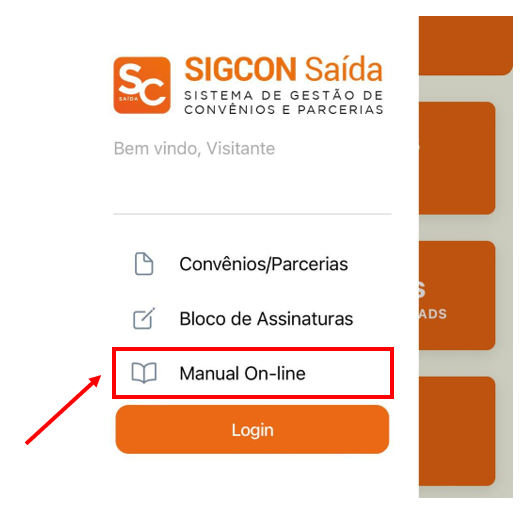
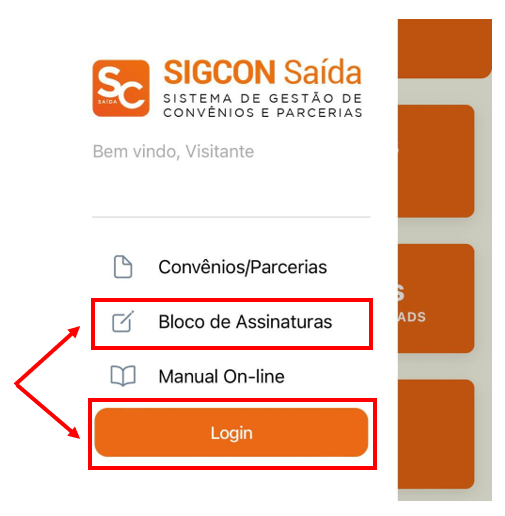
GITBOOK-583: change request with no subject merged in GitBook

diff --git a/SUMMARY.md b/SUMMARY.md
@@ -167,9 +167,10 @@
     * [Limitação para Assinatura de Documentos](processo-eletronico/solicitar-assinatura-login-senha/assinar-documento/restricoes-para-assinatura-de-documentos.md)
     * [Verificação do CAGEC](processo-eletronico/solicitar-assinatura-login-senha/assinar-documento/verificacao-do-cagec.md)
 * [Bloco de Assinatura de Documentos](processo-eletronico/bloco-de-assinatura-de-documentos/README.md)
-  * [Cadastrar Novo Bloco](processo-eletronico/bloco-de-assinatura-de-documentos/cadastrar-novo-bloco.md)
-  * [Editar Bloco Existente](processo-eletronico/bloco-de-assinatura-de-documentos/editar-bloco-existente.md)
+  * [Cadastrar Novo Bloco](processo-eletronico/bloco-de-assinatura-de-documentos/cadastrar-novo-bloco/README.md)
+    * [Editar Bloco Existente](processo-eletronico/bloco-de-assinatura-de-documentos/cadastrar-novo-bloco/editar-bloco-existente.md)
   * [Incluir Documentos em Bloco de Assinatura](processo-eletronico/bloco-de-assinatura-de-documentos/incluir-documentos-em-bloco-de-assinatura.md)
+  * [Disponibilizar Bloco de Assinatura](processo-eletronico/bloco-de-assinatura-de-documentos/disponibilizar-bloco-de-assinatura.md)
   * [Bloco de Documentos Disponíveis para Assinatura](processo-eletronico/bloco-de-assinatura-de-documentos/bloco-de-documentos-disponiveis-para-assinatura.md)
   * [Histórico de Alterações](processo-eletronico/bloco-de-assinatura-de-documentos/historico-de-alteracoes.md)
 * [Fluxo de documentos](processo-eletronico/fluxo-de-documentos/README.md)

diff --git a/processo-eletronico/bloco-de-assinatura-de-documentos/cadastrar-novo-bloco/README.md b/processo-eletronico/bloco-de-assinatura-de-documentos/cadastrar-novo-bloco/README.md
@@ -2,7 +2,7 @@
 
 **1.** Para cadastrar um Bloco de Assinatura de Documentos, acesse o menu `"Administração > Blocos e Setores > Cadastrar Bloco"`:
 
-<figure><img src="../../.gitbook/assets/image (148).png" alt=""><figcaption></figcaption></figure>
+<figure><img src="../../../.gitbook/assets/image (148).png" alt=""><figcaption></figcaption></figure>
 
 **2.** Preencha os campos "Tipo", "Órgão", "Sigla", "Nome" e "Ativo".
 
@@ -10,12 +10,12 @@
 A seleção de **Ativo** ou **Inativo** serve para controle, caso o Bloco de Documentos não esteja totalmente pronto para a assinatura dos usuários selecionados
 {% endhint %}
 
-<figure><img src="../../.gitbook/assets/image (188).png" alt=""><figcaption></figcaption></figure>
+<figure><img src="../../../.gitbook/assets/image (188).png" alt=""><figcaption></figcaption></figure>
 
 **2.**  Para vincular os usuários ao Bloco de Assinaturas, clique no `nome desejado (1)` e depois na `seta azul (2)` central para inserir o usuário no bloco:
 
-<figure><img src="../../.gitbook/assets/image (236).png" alt=""><figcaption></figcaption></figure>
+<figure><img src="../../../.gitbook/assets/image (236).png" alt=""><figcaption></figcaption></figure>
 
 **3.** Após preencher todos campos corretamente, clique em `"Novo"`:
 
-<figure><img src="../../.gitbook/assets/image (269).png" alt=""><figcaption></figcaption></figure>
+<figure><img src="../../../.gitbook/assets/image.png" alt=""><figcaption></figcaption></figure>

diff --git a/processo-eletronico/bloco-de-assinatura-de-documentos/cadastrar-novo-bloco/editar-bloco-existente.md b/processo-eletronico/bloco-de-assinatura-de-documentos/cadastrar-novo-bloco/editar-bloco-existente.md
@@ -2,12 +2,12 @@
 
 **1.** Para editar um Bloco de Assinatura de Documentos, acesse o menu `"Administração > Blocos e Setores > Cadastrar Bloco"`:
 
-<figure><img src="../../.gitbook/assets/image (193).png" alt=""><figcaption></figcaption></figure>
+<figure><img src="../../../.gitbook/assets/image (193).png" alt=""><figcaption></figcaption></figure>
 
 **2.** Ao <mark style="color:orange;">**FINAL**</mark> da página, encontre o bloco desejado para edição na **"Lista de Blocos Cadastrados",** clique no ícone da coluna `"Ações"`**`(1)`** e em `"Editar"`**`(2)`** :
 
-<figure><img src="../../.gitbook/assets/image (198).png" alt=""><figcaption></figcaption></figure>
+<figure><img src="../../../.gitbook/assets/image (198).png" alt=""><figcaption></figcaption></figure>
 
 **3.** No <mark style="color:orange;">**INÍCIO**</mark> da página, as informações do bloco selecionado para edição serão apresentadas em **"Cadastrar Blocos"**. Realize as mudanças desejadas e clique em salvar:
 
-<figure><img src="../../.gitbook/assets/image (195).png" alt=""><figcaption></figcaption></figure>
+<figure><img src="../../../.gitbook/assets/image (195).png" alt=""><figcaption></figcaption></figure>

diff --git a/aplicativo-sigcon-saida/acesso-com-usuario-e-senha/README.md b/aplicativo-sigcon-saida/acesso-com-usuario-e-senha/README.md
@@ -8,11 +8,11 @@ A diferença entre o acesso com login e sem login é que o primeiro poderá real
 
 1. Para acessar a tela de login, o usuário poderá clicar em "Bloco de Assinaturas" na tela de abertura ou em "Login" no menu lateral:
 
-<mark style="color:red;"></mark>![](<../../.gitbook/assets/image (52).png>)<mark style="color:red;"></mark>
+![](<../../.gitbook/assets/image (52).png>)
 
-<mark style="color:red;"></mark>![](../../.gitbook/assets/image.png)<mark style="color:red;"></mark>
+![](<../../.gitbook/assets/image (2).png>)
 
 2. Em seguida, a tela de login será aberta, onde deverão ser inseridas as mesmas credenciais utilizadas na versão _web_ do sistema:
 
-<mark style="color:red;"></mark>![](<../../.gitbook/assets/WhatsApp Image 2023-03-01 at 10.41.38.jpeg>)<mark style="color:red;"></mark>
+![](<../../.gitbook/assets/WhatsApp Image 2023-03-01 at 10.41.38.jpeg>)
 

diff --git a/processo-eletronico/bloco-de-assinatura-de-documentos/README.md b/processo-eletronico/bloco-de-assinatura-de-documentos/README.md
@@ -8,12 +8,12 @@ A funcionalidade de gerir os blocos está disponível **apenas para usuários in
 
 Utilize o menu ao lado esquerdo, ou clique no link desejado para acessar o tutorial da funcionalidade correspondente.
 
-{% content-ref url="cadastrar-novo-bloco.md" %}
-[cadastrar-novo-bloco.md](cadastrar-novo-bloco.md)
+{% content-ref url="cadastrar-novo-bloco/" %}
+[cadastrar-novo-bloco](cadastrar-novo-bloco/)
 {% endcontent-ref %}
 
-{% content-ref url="editar-bloco-existente.md" %}
-[editar-bloco-existente.md](editar-bloco-existente.md)
+{% content-ref url="cadastrar-novo-bloco/editar-bloco-existente.md" %}
+[editar-bloco-existente.md](cadastrar-novo-bloco/editar-bloco-existente.md)
 {% endcontent-ref %}
 
 {% content-ref url="incluir-documentos-em-bloco-de-assinatura.md" %}

diff --git a/processo-eletronico/bloco-de-assinatura-de-documentos/disponibilizar-bloco-de-assinatura.md b/processo-eletronico/bloco-de-assinatura-de-documentos/disponibilizar-bloco-de-assinatura.md
@@ -1,0 +1,16 @@
+# Disponibilizar Bloco de Assinatura
+
+Após adicionar os documentos desejados no Bloco de Assinatura, o usuário deve disponibilizá-lo.
+
+1. Acesse o menu "Administração > Blocos e Setores > Pesquisar Bloco"
+2. Após encontrar o bloco desejado, clique no menu Ações e em "Disponibilizar"
+
+<figure><img src="../../.gitbook/assets/image (1).png" alt=""><figcaption></figcaption></figure>
+
+3. Agora o bloco poderá ser encontrado no menu "Documentos > Bloco de Documentos Disponíveis para Assinatura"
+
+{% hint style="info" %}
+Você pode visualizar cada documento dentro do bloco
+
+* A janela de visualização de documentos pode ser redimensionada e também é possível dar zoom para visualizar a informação mais adequadamente.
+{% endhint %}

diff --git a/processo-eletronico/bloco-de-assinatura-de-documentos/incluir-documentos-em-bloco-de-assinatura.md b/processo-eletronico/bloco-de-assinatura-de-documentos/incluir-documentos-em-bloco-de-assinatura.md
@@ -1,7 +1,7 @@
 # Incluir Documentos em Bloco de Assinatura
 
 {% hint style="danger" %}
-Para incluir um documento em um bloco de assinatura, é necessário CADASTRAR o bloco **anteriormente**. Acesse o tutorial correspondente clicando [aqui](cadastrar-novo-bloco.md).&#x20;
+Para incluir um documento em um bloco de assinatura, é necessário CADASTRAR o bloco **anteriormente**. Acesse o tutorial correspondente clicando [aqui](cadastrar-novo-bloco/).&#x20;
 {% endhint %}
 
 **1.** Para associar um documento a um bloco de assinatura, acesse o menu `"Convênios / Parcerias > Pesquisar Proposta / Plano de Trabalho / Convênio/Parceria"`:

diff --git a/convenios/alteracoes/manual-concedente-alteracao/prorrogacao-de-oficio/README.md b/convenios/alteracoes/manual-concedente-alteracao/prorrogacao-de-oficio/README.md
@@ -4,7 +4,7 @@ A Prorrogação de Ofício é uma prorrogação de vigência decorrente do atras
 
 ## Linha do tempo para processo de prorrogação de ofício
 
-<figure><img src="../../../../.gitbook/assets/image (1) (3).png" alt=""><figcaption></figcaption></figure>
+<figure><img src="../../../../.gitbook/assets/image (1) (3) (1).png" alt=""><figcaption></figcaption></figure>
 
 {% hint style="warning" %}
 Na Prorrogação de Ofício há uma aba específica para o preenchimento da prorrogação de vigência, diferentemente do que ocorre no termo aditivo, no qual a prorrogação é realizada na aba Caracterização da Proposta.

diff --git a/aplicativo-sigcon-saida/acesso-aberto/manual-on-line.md b/aplicativo-sigcon-saida/acesso-aberto/manual-on-line.md
@@ -2,6 +2,6 @@
 
 Para acessar o Manual On-line, basta clicar no respectivo botão na página inicial ou no menu lateral do aplicativo. Ao clicar, o usuário será direcionado imediatamente para o [Manual do Sigcon-Saída](https://manual.sigconsaida.mg.gov.br/geral/master) disponível no site da SEGOV:
 
-<mark style="color:red;"></mark>![](<../../.gitbook/assets/image (26).png>)<mark style="color:red;"></mark>
+![](<../../.gitbook/assets/image (26).png>)
 
-<mark style="color:red;"></mark>![](<../../.gitbook/assets/image (2).png>)<mark style="color:red;"></mark>
+![](<../../.gitbook/assets/image (2) (3).png>)

diff --git a/login-e-senha/recuperar-login-senha-parlamentares.md b/login-e-senha/recuperar-login-senha-parlamentares.md
@@ -16,7 +16,7 @@
 
 **2.** Clique em `"Esqueci senha/login"`:
 
-<figure><img src="../.gitbook/assets/image (2) (3).png" alt=""><figcaption></figcaption></figure>
+<figure><img src="../.gitbook/assets/image (2) (3) (1).png" alt=""><figcaption></figcaption></figure>
 
 **3.** Clique no botão correspondente a sua situação
 
